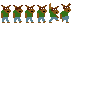
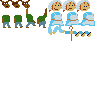
Mary dancer

Changed region(s): [[0.0, 0.0, 1.0, 0.4375]]

diff --git a/src/main/dancer.c b/src/main/dancer.c
@@ -6,19 +6,77 @@
  */
  
 static uint8_t dancerid=0;
+static uint8_t disappointment=0;
 
 /* Mary, of Little Lamb fame.
  */
  
 static void mary_init() {
+  disappointment=0;
 }
 
 static void mary_update(
   struct image *dst,
   uint32_t timep,uint32_t timec,
-  uint32_t beatp
+  uint32_t beatp,
+  uint8_t quality
 ) {
-  //TODO
+  uint8_t bodyframe=0;
+  uint8_t headframe=0;
+  uint8_t headdy=0;
+  uint8_t larmframe=0;
+  uint8_t rarmframe=0;
+  int8_t rarmdy=0;
+  
+  if (quality) {
+    headdy=(beatp&1);
+    switch ((timep*4)/timec) {
+      case 0: bodyframe=0; rarmdy=0; break;
+      case 1: bodyframe=1; rarmdy=-1; break;
+      case 2: bodyframe=0; rarmdy=0; break;
+      case 3: bodyframe=2; rarmdy=1; break;
+    }
+  
+    switch (beatp&1) {
+      case 0: switch ((timep*2)/timec) {
+          case 0: larmframe=0; break;
+          case 1: larmframe=1; break;
+        } break;
+      case 1: switch ((timep*2)/timec) {
+          case 0: larmframe=0; break;
+          case 1: larmframe=2; break;
+        } break;
+    }
+    
+    disappointment=60; // we're good now, so if a future frame is bad, be disappointed
+    
+  } else if (disappointment) {
+    disappointment--;
+    headframe=1;
+    
+  // Zero quality, check your email.
+  } else {
+    headframe=2;
+    switch ((timep*3)/timec) {
+      case 0: rarmframe=1; break;
+      case 1: rarmframe=2; break;
+      case 2: rarmframe=3; break;
+    }
+  }
+  
+  switch (rarmframe) {
+    case 0: image_blit_colorkey(dst,13,8+rarmdy,&dancer,65,26,8,15); break;
+    case 1: image_blit_colorkey(dst,13,8,&dancer,73,26,6,15); break;
+    case 2: image_blit_colorkey(dst,13,8,&dancer,79,26,6,15); break;
+    case 3: image_blit_colorkey(dst,13,8,&dancer,85,26,6,15); break;
+  }
+  image_blit_colorkey(dst,2,10,&dancer,48+bodyframe*16,12,16,14);
+  image_blit_colorkey(dst,3,headdy,&dancer,48+headframe*14,0,14,12);
+  switch (larmframe) {
+    case 0: image_blit_colorkey(dst,3,11,&dancer,48,26,4,9); break;
+    case 1: image_blit_colorkey(dst,0,11,&dancer,52,26,6,8); break;
+    case 2: image_blit_colorkey(dst,3,11,&dancer,58,26,7,7); break;
+  }
 }
 
 /* The sassy raccoon.
@@ -30,17 +88,38 @@ static void raccoon_init() {
 static void raccoon_update(
   struct image *dst,
   uint32_t timep,uint32_t timec,
-  uint32_t beatp
+  uint32_t beatp,
+  uint8_t quality
 ) {
-  uint8_t frame=(timep*4)/timec;
-  int16_t srcx=0;
-  switch (frame) {
-    case 0: srcx=12*0; break;
-    case 1: srcx=12*4; break;
-    case 2: srcx=12*0; break;
-    case 3: srcx=12*5; break;
+  uint8_t headframe=0; // 0,1,2 = neutral,blink,hoot
+  uint8_t bodyframe=0; // 0,1,2,3 = neutral,tap,disco1,disco2
+  int8_t headdy=0;
+  
+  // Poor quality. Just stand there and stare at the user.
+  if (quality<1) {
+    headframe=0;
+    bodyframe=0;
+    
+  // Getting warmed up. Tap your foot and blink a little.
+  } else if (quality<2) {
+    if ((beatp&1)&&(timep<3000)) headframe=1;
+    else headframe=0;
+    bodyframe=(timep*2)/timec;
+    
+  // High quality, dance like you mean it.
+  } else {
+    if (!(beatp&3)) headframe=2;
+    else headframe=0;
+    switch ((timep*4)/timec) {
+      case 0: bodyframe=0; break;
+      case 1: bodyframe=2; headdy=-1; break;
+      case 2: bodyframe=0; break;
+      case 3: bodyframe=3; headdy=1; break;
+    }
   }
-  image_blit_colorkey(dst,6,0,&dancer,srcx,0,12,24);
+  
+  image_blit_colorkey(dst,6,0,&dancer,0+bodyframe*12,8,12,24);
+  image_blit_colorkey(dst,7,1+headdy,&dancer,0+headframe*10,0,10,8);
 }
 
 /* Dancing robot.
@@ -52,7 +131,8 @@ static void robot_init() {
 static void robot_update(
   struct image *dst,
   uint32_t timep,uint32_t timec,
-  uint32_t beatp
+  uint32_t beatp,
+  uint8_t quality
 ) {
   //TODO
 }
@@ -66,7 +146,8 @@ static void astronaut_init() {
 static void astronaut_update(
   struct image *dst,
   uint32_t timep,uint32_t timec,
-  uint32_t beatp
+  uint32_t beatp,
+  uint8_t quality
 ) {
   //TODO
 }
@@ -87,14 +168,15 @@ void dancer_init(uint8_t _dancerid) {
 void dancer_update(
   struct image *dst,
   uint32_t timep,uint32_t timec,
-  uint32_t beatp
+  uint32_t beatp,
+  uint8_t quality
 ) {
   if (!timec) timec=1;
   if (timep>=timec) timep=0;
   switch (dancerid) {
-    case DANCER_ID_MARY: mary_update(dst,timep,timec,beatp); break;
-    case DANCER_ID_RACCOON: raccoon_update(dst,timep,timec,beatp); break;
-    case DANCER_ID_ROBOT: robot_update(dst,timep,timec,beatp); break;
-    case DANCER_ID_ASTRONAUT: astronaut_update(dst,timep,timec,beatp); break;
+    case DANCER_ID_MARY: mary_update(dst,timep,timec,beatp,quality); break;
+    case DANCER_ID_RACCOON: raccoon_update(dst,timep,timec,beatp,quality); break;
+    case DANCER_ID_ROBOT: robot_update(dst,timep,timec,beatp,quality); break;
+    case DANCER_ID_ASTRONAUT: astronaut_update(dst,timep,timec,beatp,quality); break;
   }
 }

diff --git a/src/main/game.c b/src/main/game.c
@@ -123,6 +123,20 @@ static void finalize_score() {
   for (;i-->0;v++) if (*v>score.histmax) score.histmax=*v;
 }
 
+static uint8_t calculate_score_quality() {
+  if ((score.combolength>=TRIPLE_COMBO_LENGTH*2)&&!score.missc&&!score.overlookc) {
+    return 4;
+  } else if (score.combolength>=TRIPLE_COMBO_LENGTH) {
+    return 3;
+  } else if (score.combolength>=DOUBLE_COMBO_LENGTH) {
+    return 2;
+  } else if (score.combolength) {
+    return 1;
+  } else {
+    return 0;
+  }
+}
+
 /* Notes
  */
  
@@ -534,7 +548,7 @@ void game_render(struct image *fb) {
     .v=fb->v+12*fb->stride+69,
   };
   uint32_t subtiming=synth->songtime%song_frames_per_beat;
-  dancer_update(&dancerdst,subtiming,song_frames_per_beat,beatc);
+  dancer_update(&dancerdst,subtiming,song_frames_per_beat,beatc,calculate_score_quality());
   
   // Combo quality indicator.
   image_blit_opaque(fb,69,37,&bits,10,40,24,24);

diff --git a/src/main/dancer.h b/src/main/dancer.h
@@ -19,11 +19,13 @@ void dancer_init(uint8_t dancerid);
 /* Draw to (dst), filling it.
  * (timep) should be in (0..timec-1), our position within the beat.
  * (beatp) is how many beats elapsed.
+ * (quality) comes mostly from the running combo: 0..4
  */
 void dancer_update(
   struct image *dst,
   uint32_t timep,uint32_t timec,
-  uint32_t beatp
+  uint32_t beatp,
+  uint8_t quality
 );
 
 #endif

diff --git a/src/main/image.c b/src/main/image.c
@@ -1,5 +1,6 @@
 #include "platform.h"
 #include <string.h>
+#include <stdio.h>
 
 /* Blit preamble.
  */
